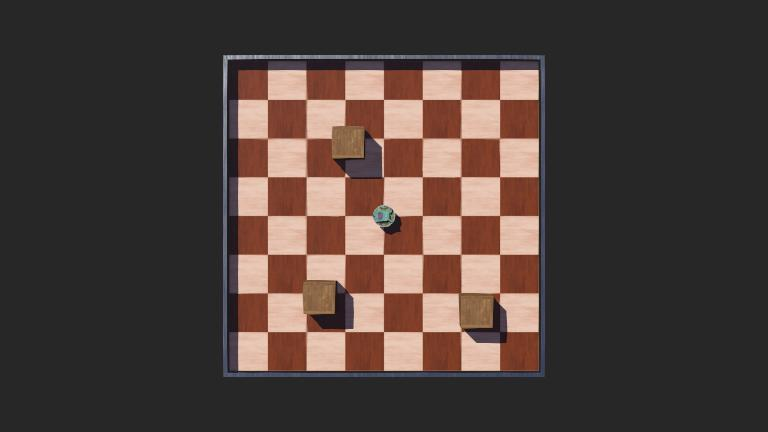
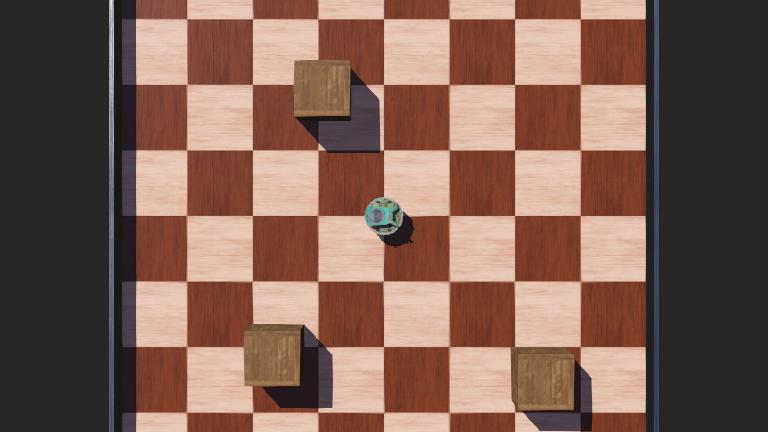
updated N_DIST_SENSORS

diff --git a/MySecondSimulation/controllers/MySecondControllerSln2/MySecondControllerSln2.cpp b/MySecondSimulation/controllers/MySecondControllerSln2/MySecondControllerSln2.cpp
@@ -16,7 +16,7 @@
 
 const int TIME_STEP {64};
 const double MAX_SPEED {6.28};
-const int NUM_DIST_SENSORS {8};
+const int N_DIST_SENSORS {8};
 
 enum class STATE {ROAM, TURN, BACKWARD};
 
@@ -29,12 +29,12 @@ int main(int argc, char **argv) {
   // and not responsible for freeing them 
 
   // initialise distance sensors
-  std::array<webots::DistanceSensor*, NUM_DIST_SENSORS> ps {};
-  std::array<std::string, NUM_DIST_SENSORS> psNames {
+  std::array<webots::DistanceSensor*, N_DIST_SENSORS> ps {};
+  std::array<std::string, N_DIST_SENSORS> psNames {
     "ps0", "ps1", "ps2", "ps3",
     "ps4", "ps5", "ps6", "ps7"
   };
-  for (int i {0}; i < NUM_DIST_SENSORS; ++i) {
+  for (int i {0}; i < N_DIST_SENSORS; ++i) {
     ps[i] = robot.getDistanceSensor(psNames[i]);
     ps[i]->enable(TIME_STEP);
   }
@@ -57,8 +57,8 @@ int main(int argc, char **argv) {
   while(robot.step(TIME_STEP) != -1) {
 
     // read sensors outputs
-    std::array<double, NUM_DIST_SENSORS> psValues {};
-    for(int i {0}; i < NUM_DIST_SENSORS; ++i) {
+    std::array<double, N_DIST_SENSORS> psValues {};
+    for(int i {0}; i < N_DIST_SENSORS; ++i) {
       psValues[i] = ps[i]->getValue();
     }
     

diff --git a/MySecondSimulation/controllers/MySecondControllerSln/MySecondControllerSln.cpp b/MySecondSimulation/controllers/MySecondControllerSln/MySecondControllerSln.cpp
@@ -16,7 +16,7 @@
 
 const int TIME_STEP {64};
 const double MAX_SPEED {6.28};
-const int NUM_DIST_SENSORS {8};
+const int N_DIST_SENSORS {8};
 
 int main(int argc, char **argv) {
 
@@ -27,12 +27,12 @@ int main(int argc, char **argv) {
   // and not responsible for freeing them 
 
   // initialise distance sensors
-  std::array<webots::DistanceSensor*, NUM_DIST_SENSORS> ps {};
-  std::array<std::string, NUM_DIST_SENSORS> psNames {
+  std::array<webots::DistanceSensor*, N_DIST_SENSORS> ps {};
+  std::array<std::string, N_DIST_SENSORS> psNames {
     "ps0", "ps1", "ps2", "ps3",
     "ps4", "ps5", "ps6", "ps7"
   };
-  for (int i {0}; i < NUM_DIST_SENSORS; ++i) {
+  for (int i {0}; i < N_DIST_SENSORS; ++i) {
     ps[i] = robot.getDistanceSensor(psNames[i]);
     ps[i]->enable(TIME_STEP);
   }
@@ -53,8 +53,8 @@ int main(int argc, char **argv) {
   while(robot.step(TIME_STEP) != -1) {
 
     // read sensors outputs
-    std::array<double, NUM_DIST_SENSORS> psValues {};
-    for(int i {0}; i < NUM_DIST_SENSORS; ++i) {
+    std::array<double, N_DIST_SENSORS> psValues {};
+    for(int i {0}; i < N_DIST_SENSORS; ++i) {
       psValues[i] = ps[i]->getValue();
     }
     
